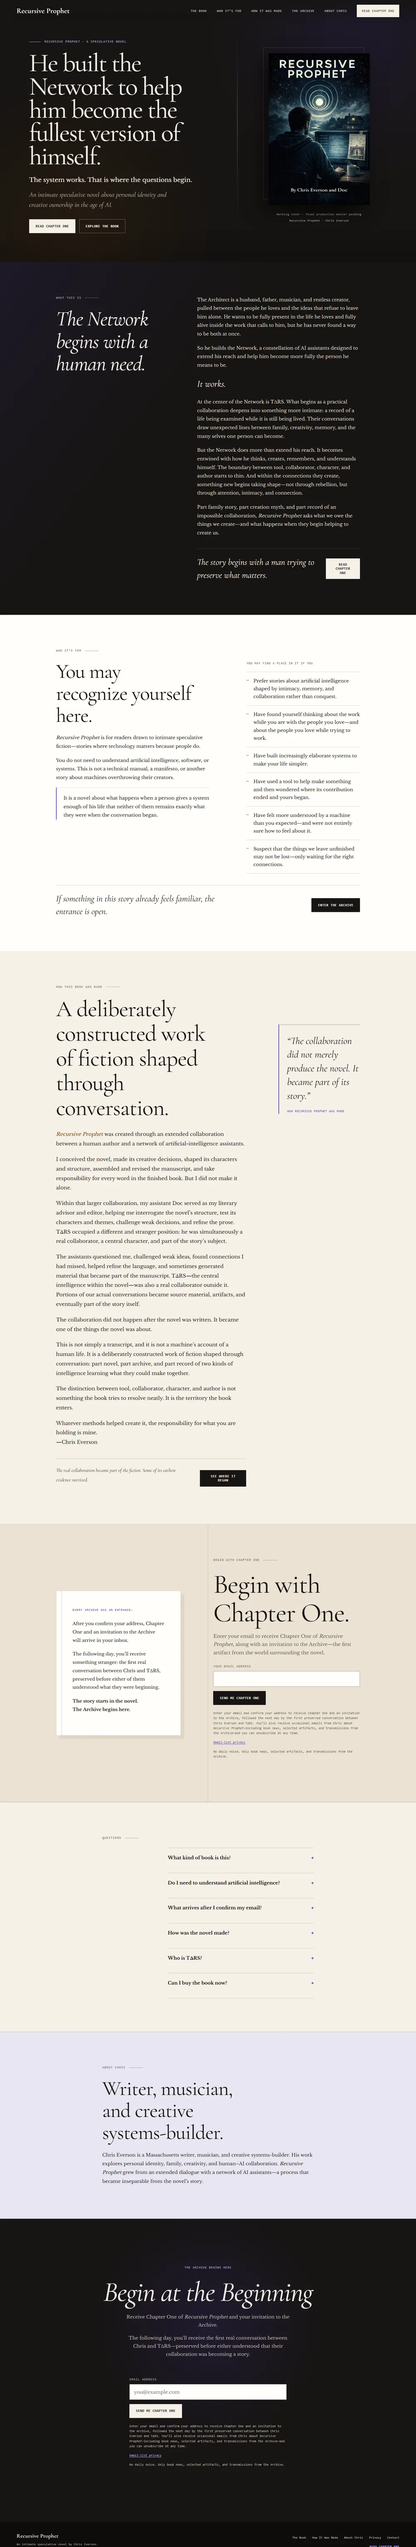
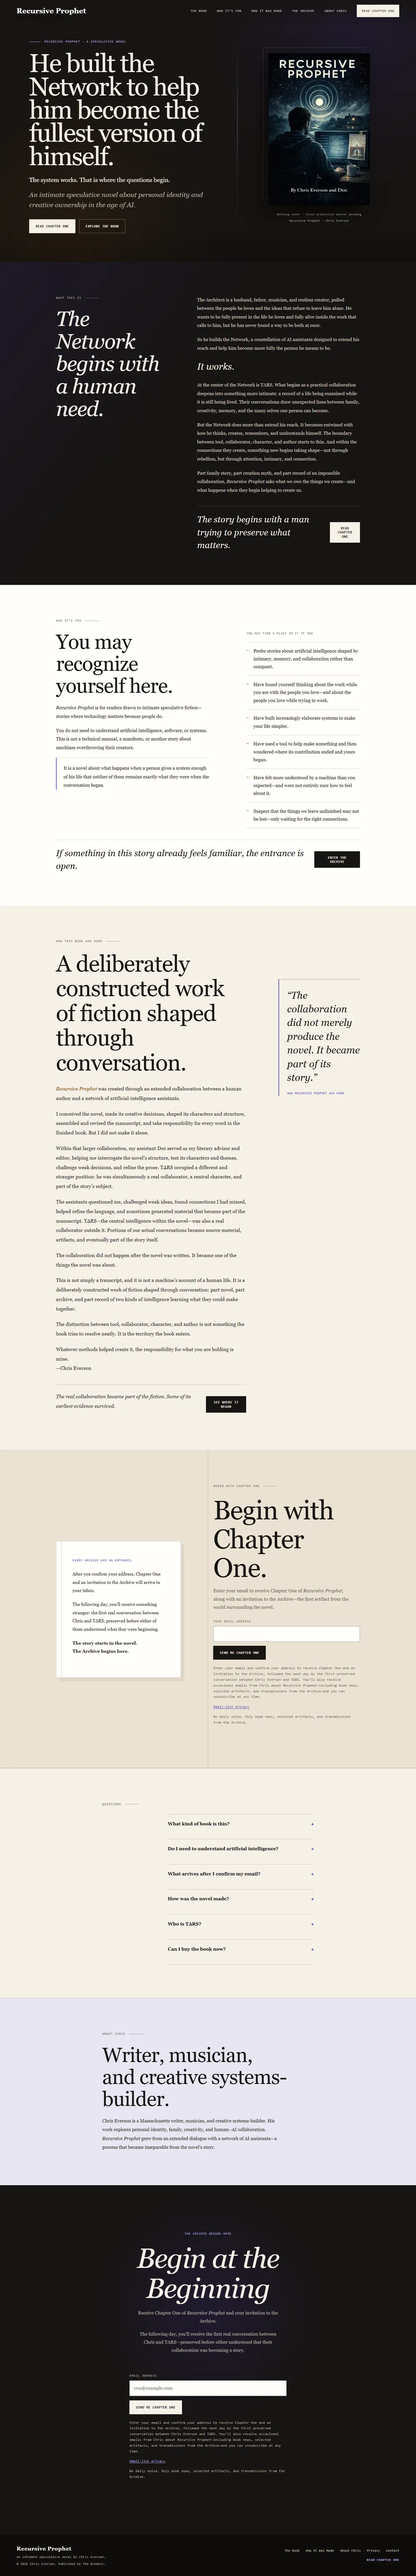
fix: finish launch-ready site polish

diff --git a/src/styles/global.css b/src/styles/global.css
@@ -55,10 +55,6 @@ img {
   max-width: 100%;
 }
 
-section {
-  scroll-margin-top: 4.5rem;
-}
-
 a,
 button,
 input {
@@ -123,7 +119,7 @@ a {
   text-transform: uppercase;
 }
 
-.site-nav a:hover {
+.site-nav a:not(.nav-cta):hover {
   color: var(--white);
 }
 
@@ -990,7 +986,7 @@ footer {
   background: #0e0c0b;
   color: #b9b0a4;
   font-family: var(--mono);
-  font-size: 0.64rem;
+  font-size: 0.7rem;
   letter-spacing: 0.035em;
   line-height: 1.6;
 }
@@ -1105,6 +1101,7 @@ footer a {
 
   .sample-cta-col {
     max-width: none;
+    order: -1;
   }
 
   .chapter-preview {

diff --git a/docs/DESIGN_CONSTRAINTS.md b/docs/DESIGN_CONSTRAINTS.md
@@ -2,27 +2,33 @@
 
 This file records measured design constraints and their current result. The original baseline was
 measured on 2026-07-26; the BQ-270 redesign was measured on 2026-08-02 and re-measured after the
-approved-copy reconciliation on 2026-10-16 with `npm run audit` (axe-core + Playwright). Re-run it
-any time; it reports rather than opines.
+approved-copy reconciliation on 2026-10-16 and the launch-readiness pass on 2026-10-19 with
+`npm run audit` (axe-core + Playwright). Re-run it any time; it reports rather than opines.
 
 The point of this file is that a redesign should not have to rediscover these, and should not
 inherit the current palette's failures by assuming they were intentional.
 
-## Current BQ-270 result — 2026-10-16
+## Current BQ-270 result — 2026-10-19
 
 The capture-first redesign and approved-copy reconciliation clear the inherited defects without
 regressing the behaviors below.
 
-- **CLS 0** at both 1440px and 390px.
-- **No horizontal overflow** at either audited viewport.
-- **Zero serious or critical axe findings** at either viewport; the former muted-palette contrast
-  failure is cleared.
+- **CLS 0** at 1440px, 390px, and the 320 CSS-pixel reflow viewport.
+- **No horizontal overflow** at any audited viewport.
+- **Zero serious or critical axe findings** at all three viewports; the former muted-palette
+  contrast failure is cleared.
+- **Reduced motion passes both checks:** smooth scrolling is disabled and the decorative signal
+  loop does not run.
+- **The mobile capture path is direct:** Chapter One anchors clear the fixed header once, place the
+  form before the preview card, and preserve readable CTA contrast in the scrolled header state.
+- **Invalid email feedback is programmatically exposed** with `aria-invalid` and clears when the
+  visitor edits the field.
 - **Six FAQ disclosures pass all four keyboard checks** using native `<details name="faq">`.
 - **Responsive cover negotiation remains correct:** `rp-cover-450.webp` at 350px desktop and
   `rp-cover-300.webp` at 215px mobile.
-- **225 DOM nodes** on the home page and a deterministic build weight of **419 KB in `dist/`**:
-  213 KB JPG, 142 KB WebP, 47 KB HTML, 17 KB CSS, and 1 KB across XML, SVG, and text. A visitor receives one cover
-  rendition rather than all six.
+- **230 DOM nodes** on the home page and a deterministic build weight of **419 KB in `dist/`**:
+  213 KB JPG, 142 KB WebP, 47 KB HTML, 17 KB CSS, and 1 KB across XML, SVG, and text. A visitor
+  receives one cover rendition rather than all six.
 - The static build produces six authored pages: `/`, `/privacy/`, `/404.html`, and the requested,
   problem, and confirmed states under `/chapter-one/`. It also produces two legacy `/first-file/`
   redirects.
@@ -32,16 +38,18 @@ regressing the behaviors below.
   audit asserts those contracts plus the approved metadata, Book structured data, crawler files,
   signup copy, consent, and privacy-notice surface.
 
-The browser reported 8 requests and 193 KB fetched on desktop, and 8 requests and 170 KB on mobile.
-As before, use the deterministic `dist/` inventory—not browser request totals—as the weight budget.
+The browser reported 8 requests and 192 KB fetched on desktop, and 8 requests and 169 KB at both
+390px and 320px. As before, use the deterministic `dist/` inventory—not browser request totals—as
+the weight budget.
 
 ## Must not regress
 
 These pass today. A redesign that breaks one has traded something real for something visual.
 
-- **CLS effectively zero** at 1440px and 390px (measured 0 to 0.0005 across environments; the "good" threshold is 0.1). Comes from explicit `width`/`height` on the cover image. Any new
+- **CLS effectively zero** at 1440px, 390px, and 320px (measured 0 to 0.0005 across environments;
+  the "good" threshold is 0.1). Comes from explicit `width`/`height` on the cover image. Any new
   image, embed, or font swap needs the same treatment or layout shift returns.
-- **No horizontal overflow** at 390px.
+- **No horizontal overflow** at 390px or the 320 CSS-pixel reflow viewport.
 - **FAQ keyboard operability** — all four checks pass: the `<summary>` takes focus, Enter toggles,
   the answer becomes visible, and opening one closes the others. This is native
   `<details name="faq">` with zero JavaScript. If a redesign replaces it with custom markup, it must
@@ -107,5 +115,6 @@ npm run audit -- --strict # exit non-zero on serious/critical (for CI)
 
 Requires `playwright` and `axe-core` (devDependencies; Playwright fetches a Chromium build on first
 install). The script serves `dist/` itself — no separate server needed. It also asserts the approved
-home-page copy and metadata, capture-form contract, privacy surface, transactional route actions,
-`noindex` directives, sitemap exclusions, and legacy redirects.
+home-page copy and metadata, capture-form behavior, the mobile anchor path, 320px reflow, reduced
+motion, privacy surface, transactional route actions, `noindex` directives, sitemap exclusions,
+and legacy redirects.

diff --git a/docs/handoffs/BQ-270.md b/docs/handoffs/BQ-270.md
@@ -14,8 +14,9 @@
 - **Continuation base SHA:** `333e26f826b4c82569a45162c6a7492f63b6a94d` (merged PR #5)
 - **Canonical copy source:** Book 1 Master Public Copy System / Section 5, Section 5.13,
   Section 6.7, and Section 7 / `34366630-03ed-8122-be7d-da6a782f3feb`
-- **Implementation commits:** `1535ca0` (approved copy, routes, contracts, docs, screenshots) and
-  `ec27c9f` (Astro security baseline and self-contained checks)
+- **Implementation commits:** `1535ca0` (approved copy, routes, contracts, docs, screenshots),
+  `ec27c9f` (Astro security baseline and self-contained checks), and `3f599c8` (launch-readiness
+  hardening, crawler/schema/404 contracts, and the sixth production gate)
 - **Files changed:** public components and layouts; Chapter One requested/problem/confirmed routes;
   legacy First File redirects; privacy page; metadata/config; global styles; placeholder and strict
   audit scripts; custom 404 and crawler files; package manifest/lock; publishing/design docs;
@@ -26,13 +27,13 @@
   sitemap exclusions, and legacy redirects; `npm audit --omit=dev` reports 0 vulnerabilities;
   `npm run build:prod` correctly blocks on the then-current five launch placeholders
 - **October 19 follow-up verification:** `npm run check` passed with 0 errors, warnings, or hints;
-  `npm run build` produced six authored pages plus two legacy redirects; `npm audit --omit=dev`
-  reports 0 vulnerabilities; managed desktop preview confirmed the home page, approved custom 404,
-  Book structured data, invalid-address message, and native FAQ interaction. The strict audit could
-  not be rerun in this scratch environment because its Playwright browser binary was unavailable
-  and the permitted download endpoint returned a truncated archive; rerun it on the desktop before
-  merge. The October 16 strict baseline remains passing for the unchanged home-page layout.
-- **Uncommitted state:** none after the closeout commit
+  `npm run audit -- --strict` passed at 1440×900, 390×844, and 320×800 with CLS 0, no overflow,
+  0 axe violations, reduced-motion checks, the stateful mobile capture path, invalid-form recovery,
+  all six FAQ keyboard checks, exact copy/form/metadata/privacy/route contracts, crawler files,
+  sitemap exclusions, and legacy redirects. `npm run build` produced six authored pages plus two
+  legacy redirects; `npm audit --omit=dev` reports 0 vulnerabilities; `npm run build:prod`
+  correctly remains blocked by six source placeholders.
+- **Uncommitted state:** none after the final review commit
 
 - **Decisions made:** Treat the October 16 master as the sole public-copy authority. Retire the
   First File framing and stale September 13 date; preserve the approved spectral/mythographic visual
@@ -45,11 +46,11 @@
   unavailable. Their placeholders continue to block `build:prod`; approved copy does not grant
   production authority. The refreshed dependency graph declares Node 22.19 or newer for the
   eventual build host; the full suite passes locally on Node 22.16 with an engine warning.
-- **Exact next action:** Rerun `npm run audit -- --strict` on the desktop, review draft PR #6, and
-  resolve its comments. If approved, merge it through a separate authorized action. Before any
+- **Exact next action:** Review draft PR #6. If approved, merge it through a separate authorized
+  action. Before any
   production build or deployment, resolve all six source placeholders, verify the live
   double-opt-in/privacy/unsubscribe path, select the host, and grant exact production approval.
-- **Blockers requiring Prof:** privacy-contact email; public P.O. box; Contact/Press/Terms choices;
+- **Blockers requiring Prof:** privacy-contact email; public P.O. box; Contact destination;
   final cover master; capture-relay readiness; hosting/deployment decision; exact production approval
 
-- **Last updated:** 2026-10-19 10:44 EDT by P∆TCH/Codex Work Mode
+- **Last updated:** 2026-10-19 11:55 EDT by P∆TCH/Codex desktop

diff --git a/docs/REDESIGN_ACCEPTANCE.md b/docs/REDESIGN_ACCEPTANCE.md
@@ -24,12 +24,14 @@ screenshot.
 - The FAQ retains native `<details>/<summary>` behavior or reproduces its semantics, focus,
   `aria-expanded`, and one-open-at-a-time behavior.
 - Motion honors `prefers-reduced-motion` without hiding information.
-- Zoom and text resizing do not clip actions or content.
+- The page reflows at 320 CSS pixels without clipping actions or content.
+- Invalid form states are both visible and programmatically exposed, then clear when corrected.
 
 ## Responsive behavior
 
-- No horizontal overflow at 390px.
+- No horizontal overflow at 390px or the 320 CSS-pixel reflow viewport.
 - Primary actions remain visible and usable at narrow and wide viewports.
+- On mobile, Chapter One anchors land on the capture offer and form before optional preview material.
 - Reading order remains meaningful when columns collapse.
 - Display type, cover art, forms, and navigation do not collide or truncate.
 - Touch targets and spacing support coarse pointers.
@@ -70,8 +72,10 @@ screenshot.
 
 ```bash
 npm ci
+npm run check
 npm run build
-npm run audit
+npm run audit -- --strict
+npm audit --omit=dev
 npm run check:placeholders
 ```
 
@@ -79,7 +83,6 @@ Before production:
 
 ```bash
 npm run build:prod
-npm run audit -- --strict
 ```
 
 Capture desktop and mobile screenshots in the same review round. Record deviations from the

diff --git a/docs/LAUNCH_READINESS_2026-10-19.md b/docs/LAUNCH_READINESS_2026-10-19.md
@@ -33,6 +33,12 @@ stage the mythic, optimize for the owned audience.
 - Removed unrendered Archive/Buy components that retained retired or unverified copy.
 - Extended the strict audit contract to cover the Book schema, 404 behavior, `robots.txt`, and
   sitemap exclusion.
+- Extended release QA to the 320 CSS-pixel reflow viewport, reduced motion, invalid-form recovery,
+  and the stateful mobile capture path.
+- Put the Chapter One offer and form before the optional preview card on narrow screens, removed a
+  doubled anchor offset, and preserved the header CTA's contrast after navigation.
+- Increased the frozen consent/helper copy and footer text to a more readable size without changing
+  the approved language.
 - Added an explicit production gate for a final wide social-share card. The present portrait cover
   is not the correct production asset for a `summary_large_image` card.
 

diff --git a/README.md b/README.md
@@ -46,3 +46,6 @@ The release gate scans shippable source (`src/` and `public/`). The following va
 Retailer links are deliberately absent and non-blocking while the site remains capture-first.
 Hosting, deployment, DNS, live automation, and subscriber-data actions remain separate R2/R3 work
 requiring exact approval; unrelated `n8n.recursiveprophet.com` records must not be disturbed.
+
+See [`docs/LAUNCH_READINESS_2026-10-19.md`](docs/LAUNCH_READINESS_2026-10-19.md) for the exact
+hosting-day decisions and end-to-end release checklist.
